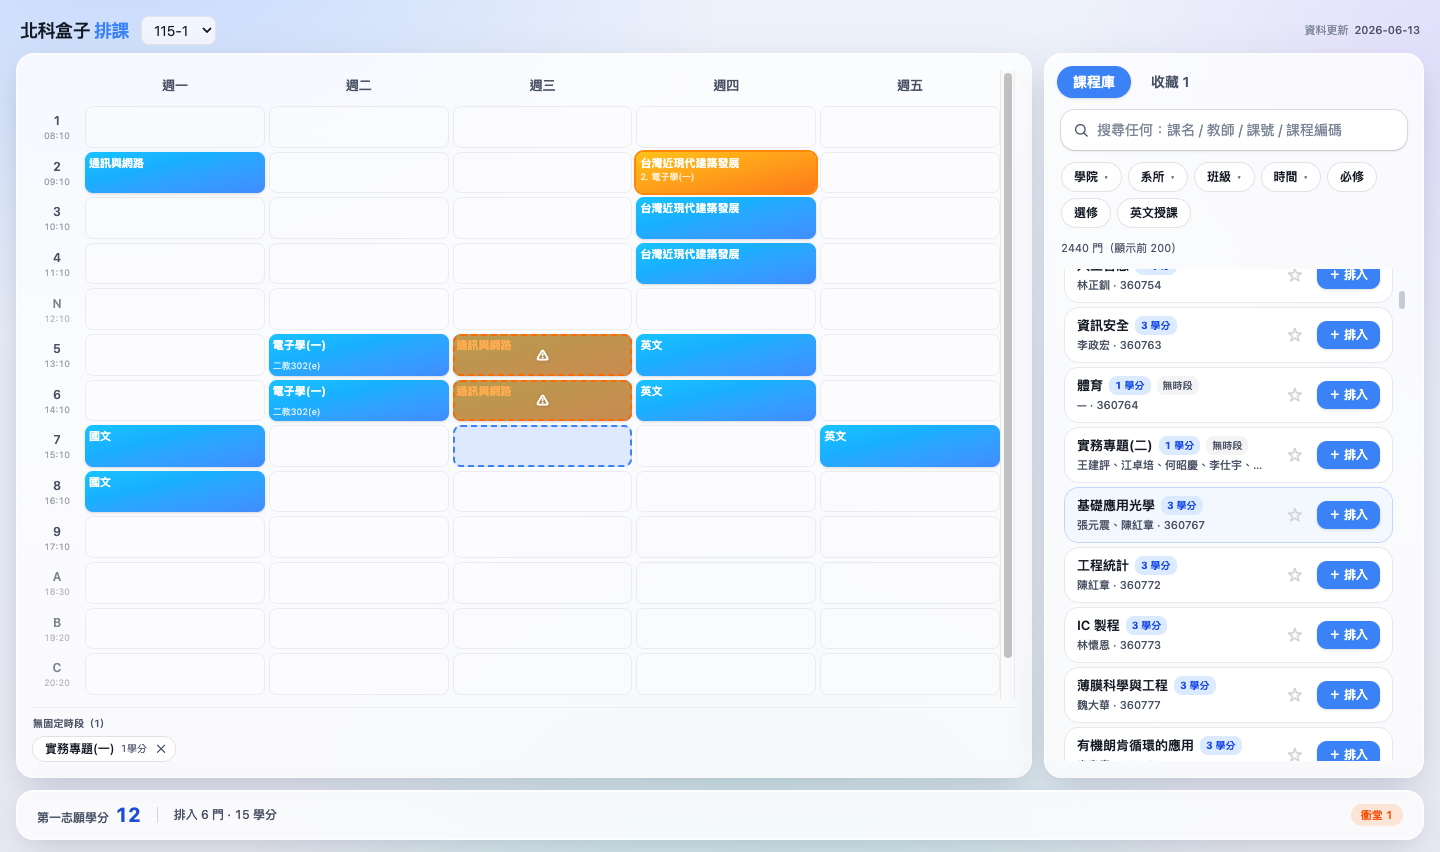
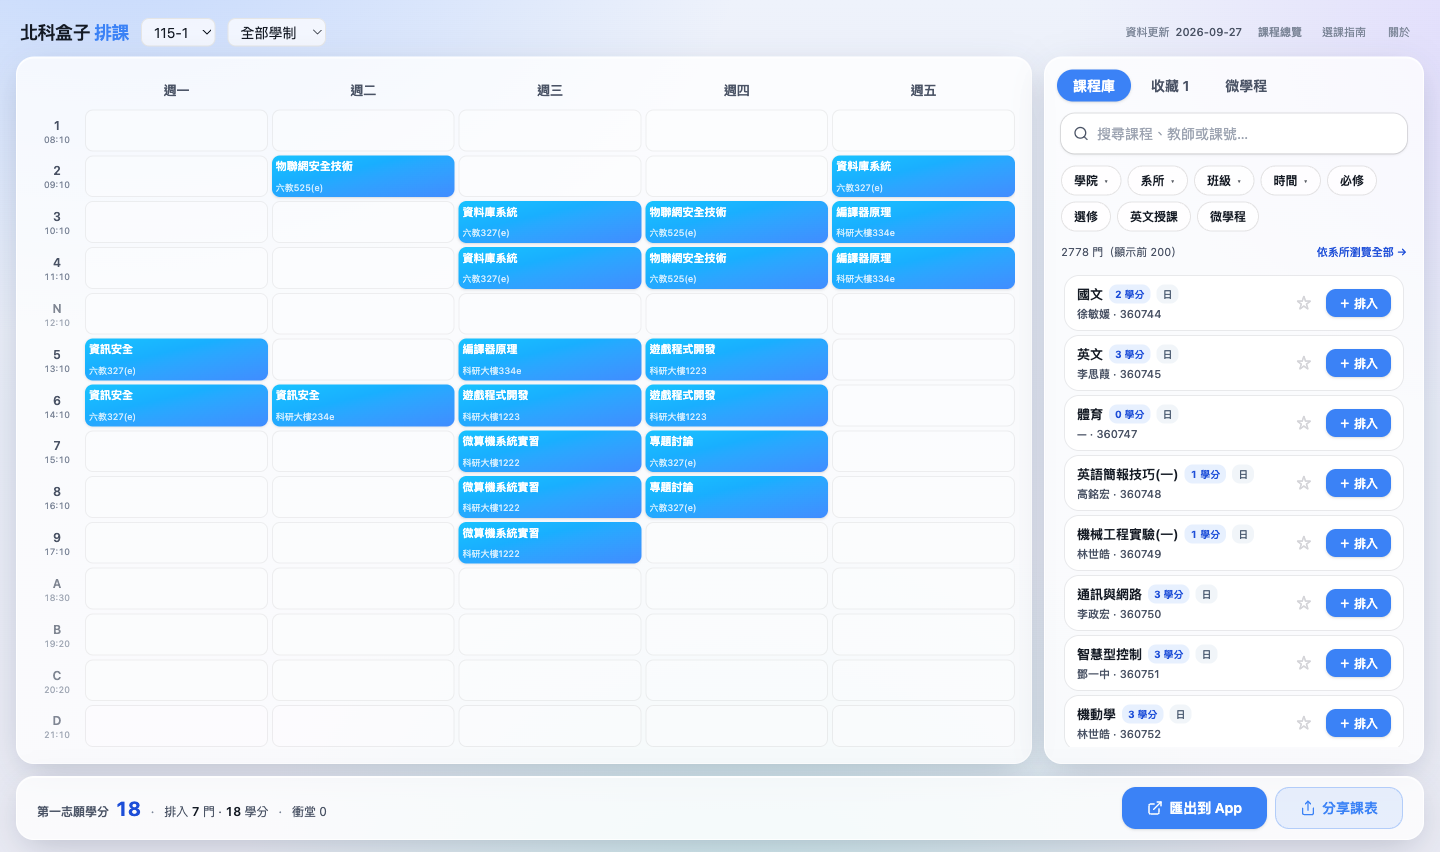
docs(readme): 依實際狀況改寫——App 匯出／匯入／加退選送件已上線、補齊功能、更新管線與指令、重拍截圖
- 匯出到 App（M3）、App 匯入（P2）已上線；P3 開學後加退選可匯入草稿送件，
  期末預選以系所清單勾選、暫未接草稿（NTUTBox#247）
- 補上分享、收藏、微學程、系所總覽、指南、Dcard 評價、GA4、預設學期自動切換、逐時段教室
- 深色模式改為規劃中（#42）；課程數 3.3 萬；更新頻率與 season Worker；crawl 子命令改為 pipeline／derive
- 截圖以正式站重拍（資工三 7 門，含多教室課）

diff --git a/README.md b/README.md
@@ -3,38 +3,53 @@
 [![試用](https://img.shields.io/badge/試用-course.ntutbox.com-3b82f6)](https://course.ntutbox.com)
 [![License: MIT](https://img.shields.io/badge/License-MIT-green.svg)](LICENSE)
 
-公開、免登入的**台北科技大學排課規劃器**：在選課開放前查課、排課、即時檢查衝堂與學分，排好後（規劃中）匯出一份選課計畫導入「北科盒子」iOS App 完成送件。
+公開、免登入的**台北科技大學排課規劃器**：在選課開放前查課、排課、即時檢查衝堂與學分，排好後一鍵把選課計畫帶進「北科盒子」iOS App，由 App 完成送件。
 
-> **定位**：Web 端只做**規劃**——不登入、不跨域打學校系統、不代送。正式送件由北科盒子 iOS App 負責；Web ↔ App 只透過「選課計畫」串接。
+> **定位**：Web 端只做**規劃**——不登入、不跨域打學校系統、不代送。正式送件由北科盒子 iOS App 負責（送出前一律由使用者本人確認）；Web ↔ App 只透過「選課計畫」串接。
 
 🔗 **立即試用 → [course.ntutbox.com](https://course.ntutbox.com)**
 
-![排課器（桌面）](docs/screenshots/planner-desktop.png)
+<p align="center"><img src="docs/screenshots/planner-desktop.png" alt="排課器（桌面）" width="820"></p>
 
 <p align="center"><img src="docs/screenshots/planner-mobile.png" alt="排課器（手機）" width="300"></p>
 
 ## 狀態
 
-公開**初步驗證**中。資料涵蓋 110-1 起 **11 個學期、約 3.2 萬筆開課**，由 GitHub Actions 定期更新。
-另有逐學期的**教室課表**（`terms/{t}/rooms.json`，含校園地圖 GIS 對應），給空教室查找用。
+公開**初步驗證**中。資料涵蓋 110-1 起 **11 個學期、約 3.3 萬筆開課**：每日更新課程目錄與人數、每週更新課綱與教室課表；選課季（預選、開學後加退選、期中撤選）依行事曆窗口自動加密記錄人數。另有逐學期的**教室課表**（`terms/{t}/rooms.json`，含校園地圖 GIS 對應），給 App 的空教室查找用。
 
 | | 範圍 |
 |---|---|
-| ✅ 已上線 | 課程爬蟲與資料管線（P0）、Web 排課器核心迴圈（P1 · M1） |
-| 🚧 規劃中 | 選課身分 / 六類選課階段分類（M2）、匯出選課計畫 → App 匯入（M3 / P2）、App 半自動送件（P3） |
+| ✅ 已上線 | 課程爬蟲與資料管線（P0）· Web 排課器（P1 · M1）· 匯出選課計畫到 App（M3）· App 匯入確認（P2）· App 開學後加退選匯入草稿並送件 |
+| 🚧 進行中 | 選課階段分類（M2；學制身分已完成）· App 期末預選套用草稿（[NTUTBox#247](https://github.com/poterpan/NTUTBox/issues/247)）· 送件錯誤翻譯（P3） |
 
-## 功能（目前）
+## 功能
 
+**查課與排課**
 - **免登入查課**：全文搜尋課名 / 教師 / 課號 / 課程編碼（前端 bigram，離線可用）
-- **多維篩選**：學院 / 系所 / 班級（連動）、星期 / 節次、必選修、英語授課（EMI）
-- **週課表**：週 / 日檢視，資料驅動欄位（週末有課才顯示）
+- **多維篩選**：學院 / 系所 / 班級（連動）、星期 / 節次、必選修、英語授課（EMI）、微學程；依選擇的學制調整選項
+- **週課表**：週 / 日檢視；週末有課才顯示週末欄；在課程庫滑過課程時預覽它的時段
 - **衝堂偵測**：同格堆疊志願序，衝堂格醒目標示
 - **學分統計**：以第一志願計、排除佔位課
-- **課程詳情**：含教學大綱（課程大綱 / 進度 / 評量 / 教材…）
-- **草稿**：localStorage 自動保存，逐學期獨立
+- **草稿與收藏**：localStorage 自動保存，逐學期獨立
 - **無固定時段托盤**：沒有上課節次的課（如實務專題）獨立列出
-- **逐時段教室**：多教室課的每個時段各列上課教室（由教室課表反查）
-- **PWA**：Service Worker 快取、Apple / Liquid-Glass 風格、支援深色與減動偏好
+- **預設學期自動切換**：依行事曆，本學期期中撤選截止後預設切到下學期；檢視學期不是本學期時出現「回到本學期」
+
+**課程資訊**
+- **課程詳情**：教學大綱（課程大綱 / 進度 / 評量 / 教材…）、Dcard 評價連結、相關課程
+- **逐時段教室**：多教室課的每個時段各列上課教室（由教室課表反查）；課表格子顯示該節教室
+- **微學程**：瀏覽分類課程清單與修讀規則原文，可直接排入課表
+
+**分享與匯出**
+- **匯出到 App**：Universal Link（`ntutbox.com/plan/…`），另提供 QR（經本站 `/open` 中繼頁）與複製連結
+- **分享**：分享單堂課或整份課表（唯讀預覽，可合併或取代匯入）；分享連結有課名 OG 預覽圖
+
+**瀏覽與指南**
+- **系所總覽**（`/browse`）：各開課單位的課程清單靜態頁
+- **選課指南**（`/guide`）：選課階段、制度說明等
+
+**其他**
+- **PWA**：Service Worker 快取、Apple / Liquid-Glass 風格（深色模式規劃中，[#42](https://github.com/poterpan/ntutbox-course/issues/42)）
+- **匿名使用統計**：GA4，使用者同意後才啟用
 
 > 節次採北科實際制：`1,2,3,4,N(中午),5,6,7,8,9,A,B,C,D(晚上)`；衝堂僅以「星期 × 節次」交集判定。
 
@@ -45,12 +60,14 @@
 > 點圖開啟原尺寸。
 
 ```
-GitHub Actions（Python 爬蟲, cron）
-  └─ aps.ntut.edu.tw/course/tw/（公開課程查詢 · Croom 教室課表）
-     → canonical NDJSON（git 版控；commit 歷史＝免費的選課人數時序）
-     → v1 JSON artifacts → Cloudflare R2（cdn.ntutbox.com/course/v1/）
-Web（Next.js PWA · 靜態匯出 + 前端搜尋 + Service Worker）
-  └─ course.ntutbox.com ── 匯出選課計畫（規劃中）→ 北科盒子 iOS App
+GitHub Actions（Python 爬蟲）：daily · weekly · season · maintenance
+  └─ aps.ntut.edu.tw/course/tw/（公開課程查詢 · Croom 教室課表）＋ 校網行事曆 ics
+     → canonical（data branch；人數以快照＋觀測紀錄保存，內容不帶爬取時間）
+     → derive → v1 JSON → Cloudflare R2（cdn.ntutbox.com/course/v1/）
+Cloudflare Worker（ntutbox-season-scheduler，每小時）
+  └─ 依行事曆窗口觸發 season · 預設學期切換時重建網站 · 每週保活 daily／weekly
+Web（Next.js · 靜態匯出 + 前端搜尋 + Service Worker · Cloudflare Workers）
+  └─ course.ntutbox.com ── 選課計畫（Universal Link）→ 北科盒子 iOS App
 ```
 
 > 更多圖（管線流程、資料模型、抓取邏輯、依頻率分的 workflow、選課季排程與學期切換）見 [`docs/ARCHITECTURE.md`](docs/ARCHITECTURE.md)。
@@ -59,13 +76,13 @@ Web（Next.js PWA · 靜態匯出 + 前端搜尋 + Service Worker）
 
 | 路徑 | 內容 | 技術 |
 |---|---|---|
-| `apps/web/` | 排課 Web / PWA | Next.js 16 · TS · Tailwind · shadcn（Apple / Liquid-Glass 主題） |
-| `crawler/` | 課程目錄 / 大綱爬蟲 | Python · Pydantic v2 · uv |
+| `apps/web/` | 排課 Web / PWA | Next.js 16 · TS · Tailwind · shadcn（Apple / Liquid-Glass 主題）· Cloudflare Workers |
+| `crawler/` | 課程目錄 / 大綱 / 教室課表 / 行事曆爬蟲 | Python · Pydantic v2 · uv |
 | `packages/schema/` | 資料合約（Pydantic → TS 型別生成） | — |
-| `infra/` | Cloudflare（R2 / Workers）· GitHub Actions | wrangler |
+| `infra/` | 發佈（R2）· 告警 · season 排程 Worker（`infra/season-scheduler/`）· GIS 快照 | Python · wrangler |
 | `docs/` | 設計 / 決策 / 架構圖 | — |
 
-> 資料合約以 `crawler/models.py`（Pydantic）為單一真相，產生 TS 型別給 Web、（未來）Codable 給 iOS。
+> CDN 資料合約以 `crawler/models.py`（Pydantic）為單一真相，產生 TS 型別給 Web；iOS 端以 Codable 對應。選課計畫（Web → App）的 payload 格式則以 App 端 spec 為準（見 `apps/web/src/lib/share/plan-payload.ts` 開頭註解）。
 
 ## 本機開發
 
@@ -90,18 +107,20 @@ pnpm build        # 靜態匯出到 out/
 cd crawler
 uv venv .venv && uv pip install -p .venv/bin/python -e '.[dev]'
 .venv/bin/pytest
-.venv/bin/python -m ntut_catalog crawl --terms 115-1 --out ../data --force
+# 抓指定資料集並合併進本地 data/canonical，再產生 v1
+.venv/bin/python -m ntut_catalog pipeline --cadence manual --datasets catalog --terms 115-1 --out ../data --merge
+.venv/bin/python -m ntut_catalog derive --out ../data
 ```
 
-詳見 [`crawler/README.md`](crawler/README.md)。
+資料集登錄表、各子命令與新增資料集的方式，詳見 [`crawler/README.md`](crawler/README.md)；維運操作見 [`infra/README.md`](infra/README.md)。
 
 ## Roadmap
 
-- **P0 — 資料 / 爬蟲**（✅）：穩定產出 catalog / classes / periods / 大綱 JSON
-- **P1 — Web 排課器**（🚧 M1 已上線；M2 身分與階段分類、M3 匯出進行中）：搜尋 / 週課表 / 衝堂 / 學分 / 階段分類 / 草稿 / 匯出
-- **P2 — 匯出 plan → App 匯入確認**（Universal Link / URL Scheme）
-- **P3 — App 半自動送件**（依班級分組批次）+ 結果回寫
-- **P4 — 進階**：替代課 / 畢業學分 / 評價 / 行事曆
+- **P0 — 資料 / 爬蟲**（✅）：課程目錄 / 班級 / 節次 / 大綱 / 微學程 / 課程標準 / 行事曆 / 教室課表
+- **P1 — Web 排課器**（✅ M1 核心迴圈、M3 匯出；🚧 M2 選課階段分類——學制身分已完成）
+- **P2 — 匯出 plan → App 匯入確認**（✅ Universal Link）
+- **P3 — App 送件**（🚧 開學後加退選可匯入草稿、使用者確認後送出並逐課回報結果；期末預選以系所開課清單勾選，暫未接草稿；錯誤翻譯未做）
+- **P4 — 進階**：評價（✅ Dcard 連結）· 空教室（✅ 資料；App 端實作中）· 替代課 / 畢業學分 / 行事曆 UI
 
 ## 貢獻
 
